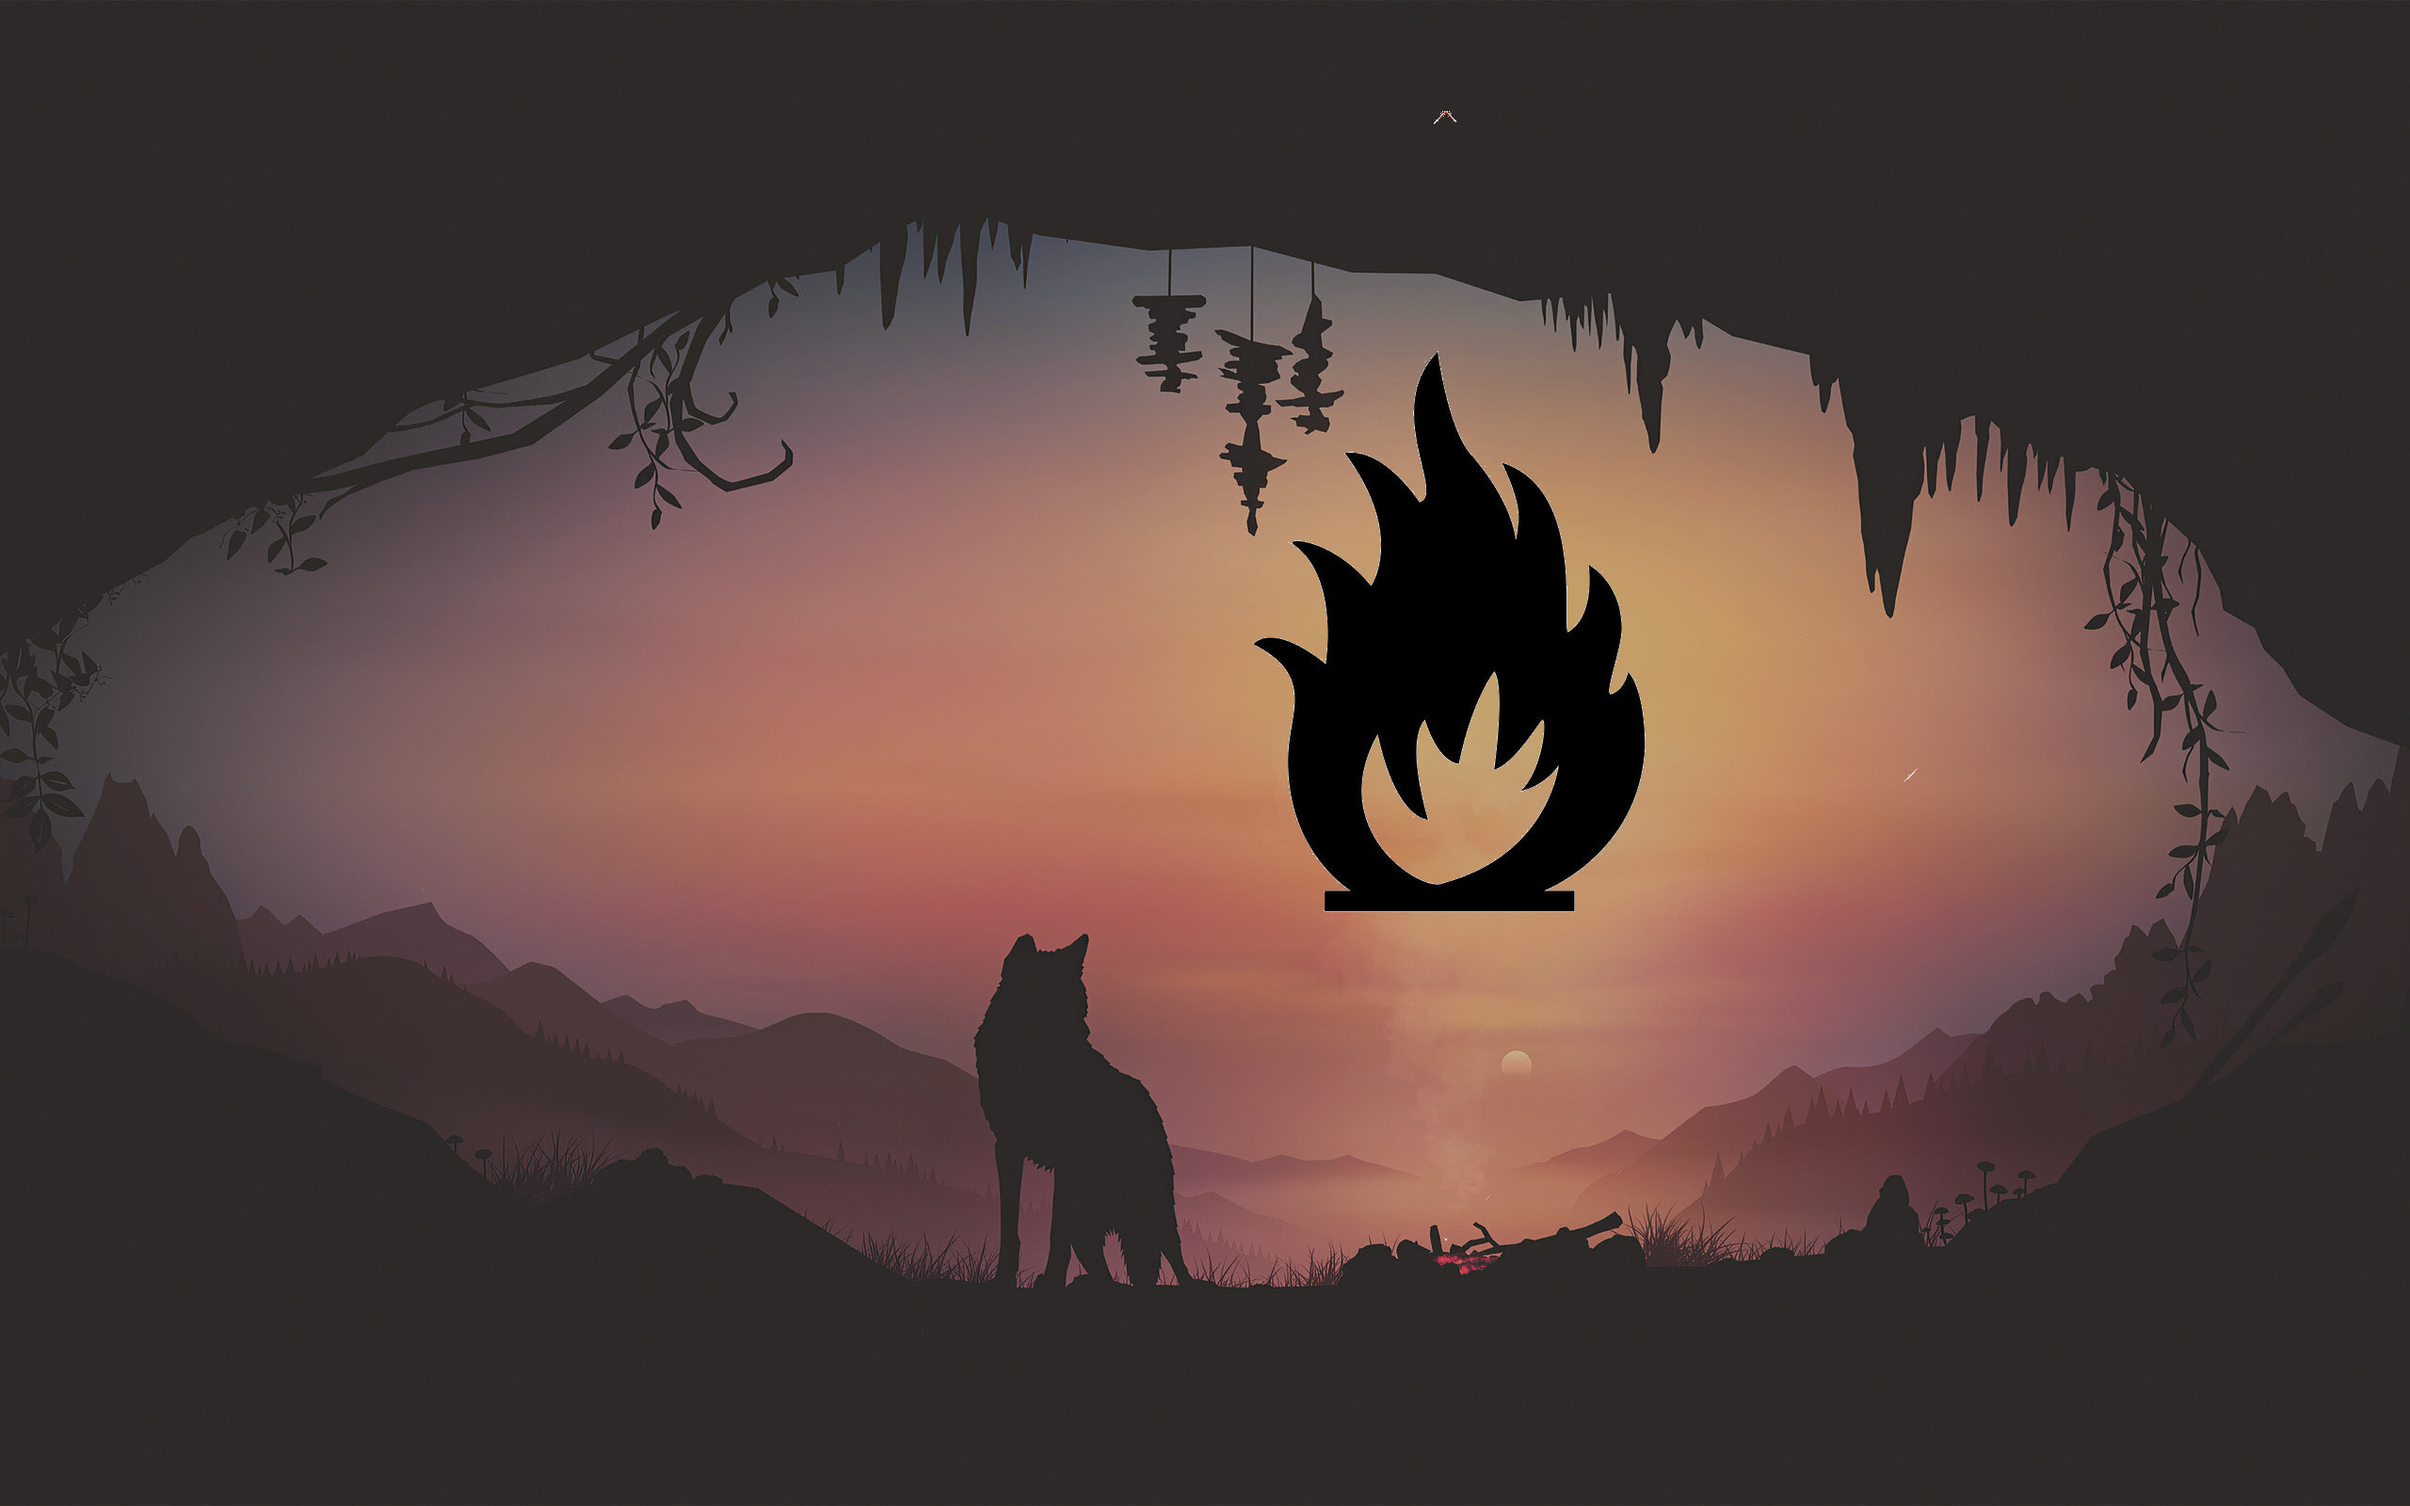
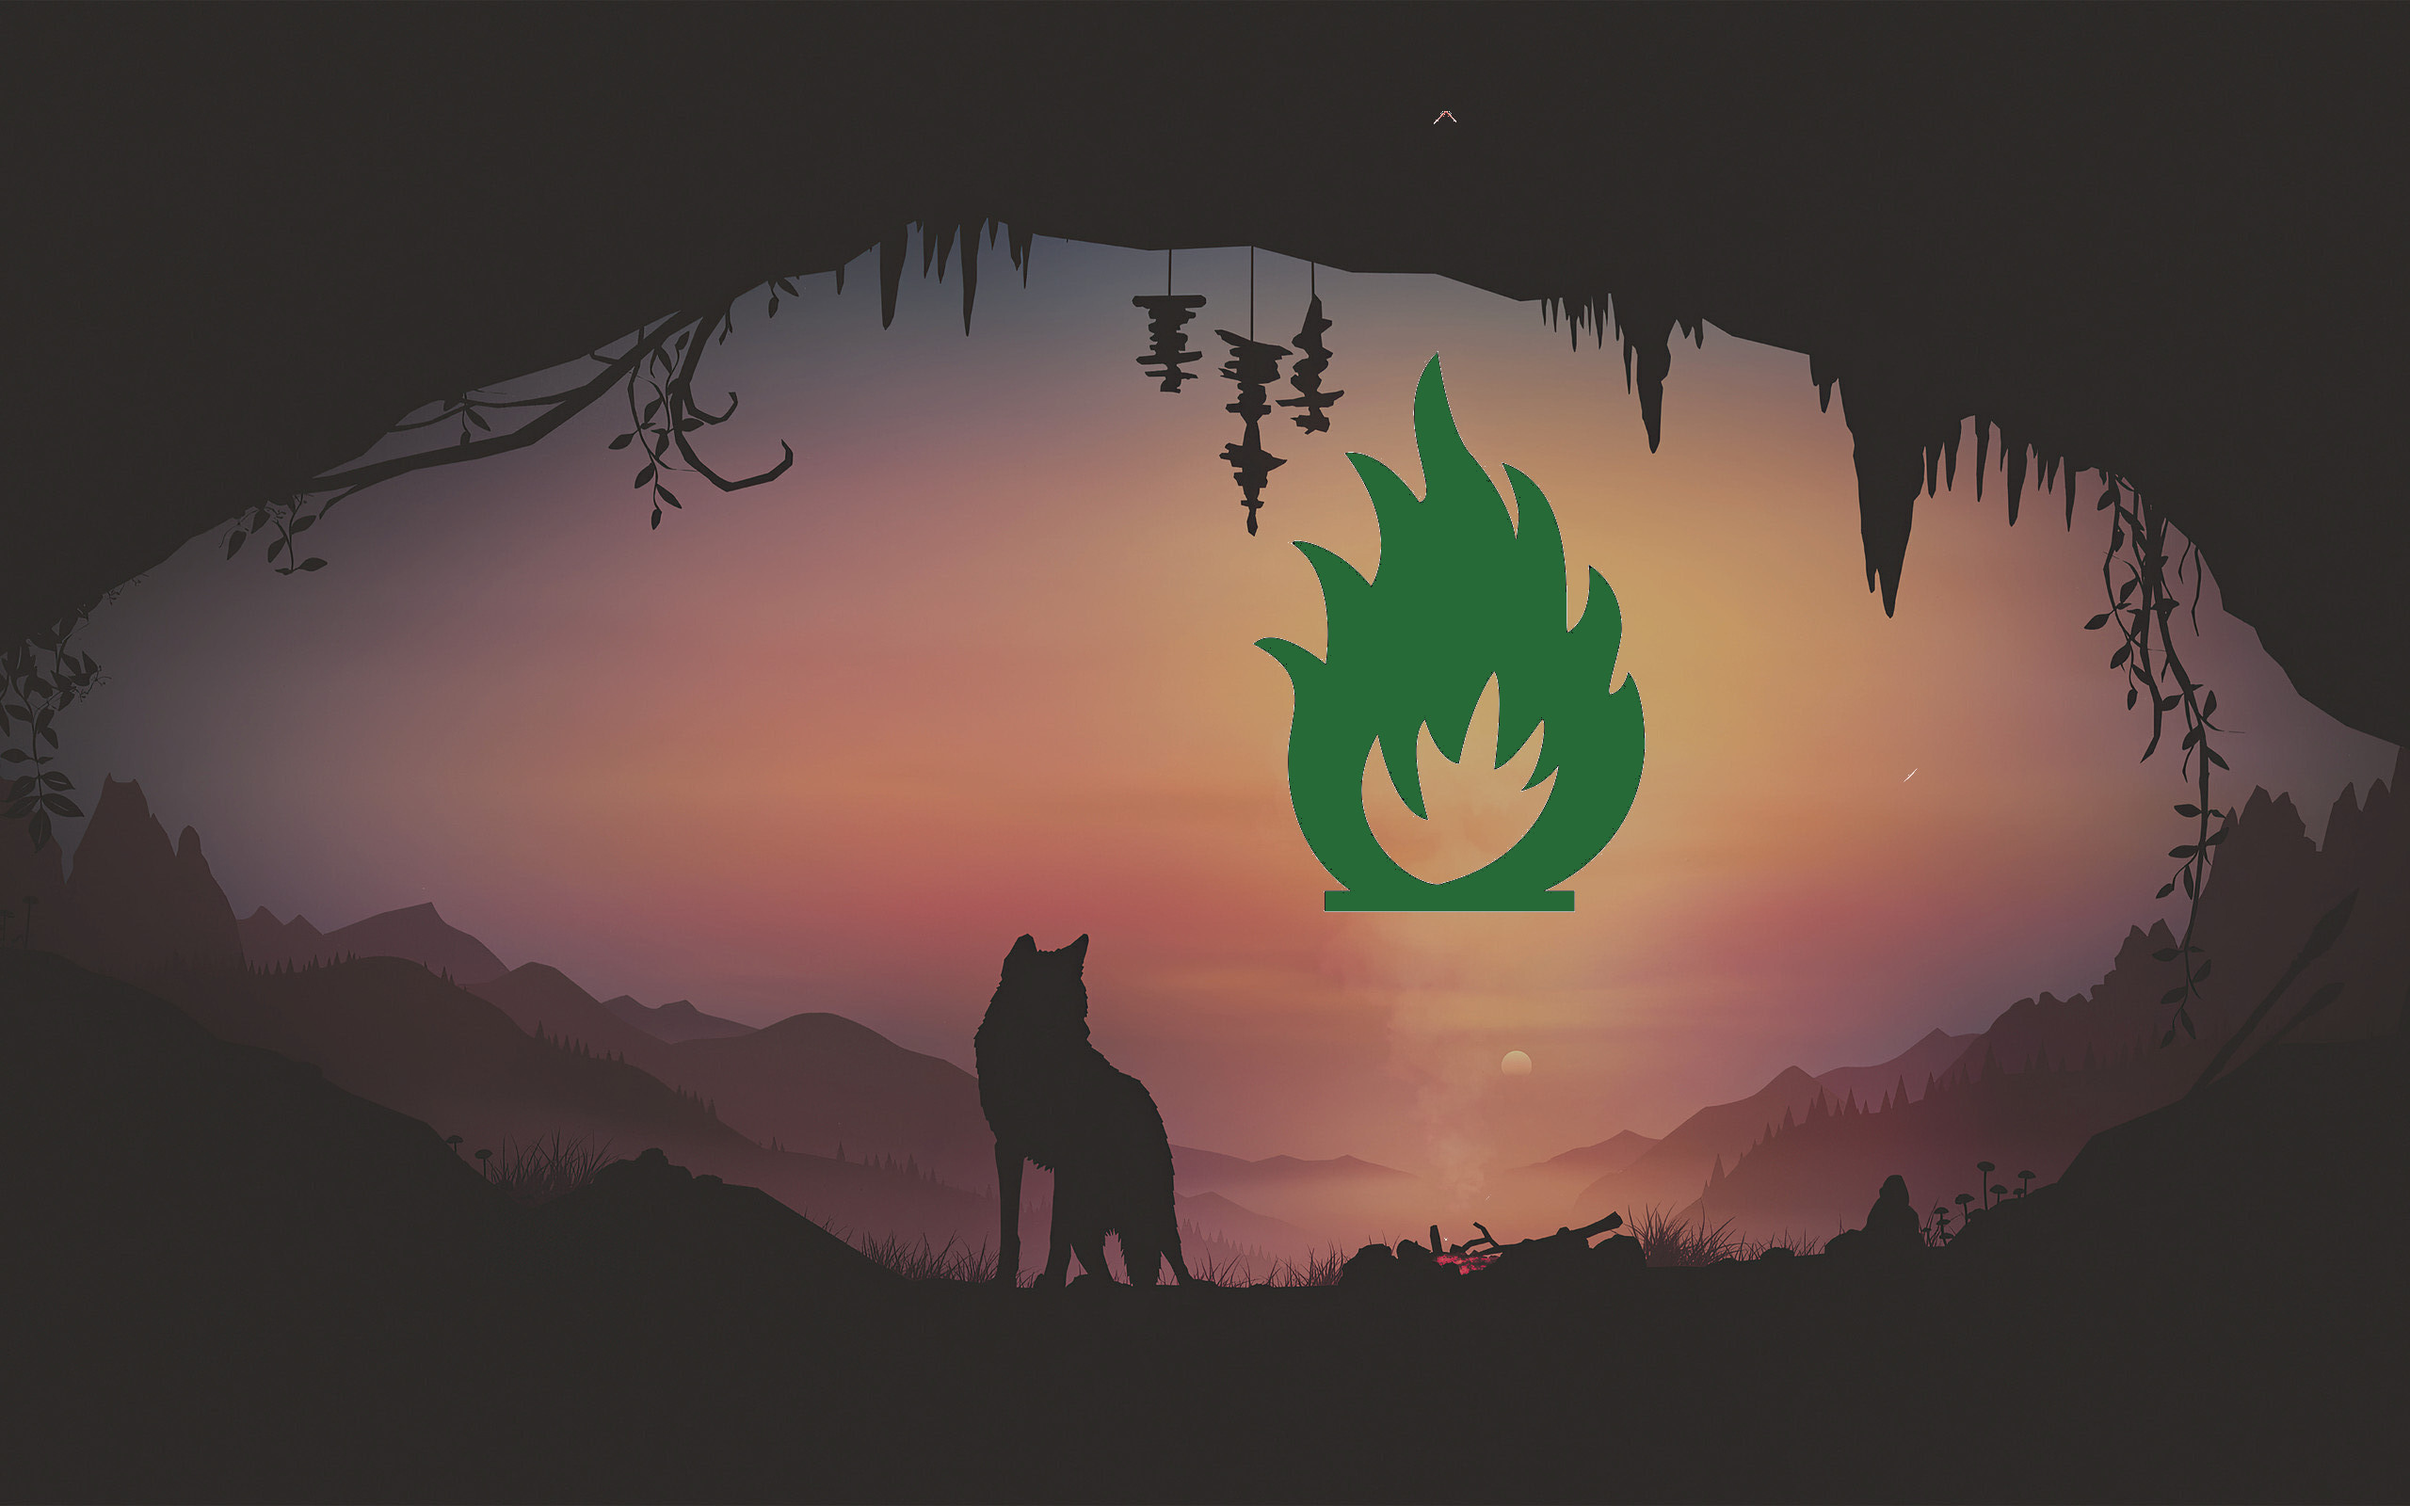
nagyon fapados szinfelismeres (talan mukodo)

Changed region(s): [[0.5312, 0.25, 0.6875, 0.625]]

diff --git a/image.py b/image.py
@@ -25,6 +25,15 @@ def match_percent(match):
     return (1.0 - match) * 100
 
 
+def color_similarity(img1, img2):
+    # histogram magia
+    hist1 = cv2.calcHist([img1], [0, 1, 2], None, [8, 8, 8], [0, 256, 0, 256, 0, 256])
+    hist2 = cv2.calcHist([img2], [0, 1, 2], None, [8, 8, 8], [0, 256, 0, 256, 0, 256])
+    hist1 = cv2.normalize(hist1, hist1).flatten()
+    hist2 = cv2.normalize(hist2, hist2).flatten()
+    return cv2.compareHist(hist1, hist2, cv2.HISTCMP_CORREL)
+
+
 def contours(gray):
     # draga mulatsag, mert csinal egy masolatot az egesz kepbol,
     # ami nagy felbontasnal bajos lehet
@@ -79,11 +88,10 @@ def get_sign(picture, signs):
 # ideiglenes teszt kod
 # csak akkor hivodik meg ha ezt a filet futtatjuk
 if __name__ == '__main__':
-    import utils
-    signs = utils.files('signs')
-    imgs = load_sign('fire1.jpg')
-    test = load_sign('fire2.jpg')
+    imgs = cv2.imread('fire1.jpg')
+    test = cv2.imread('fire2.jpg')
     r_test, r_imgs = resize_to_same_size(test, imgs)
     display(r_test)
     display(r_imgs)
-    print(ssim(r_test, r_imgs))
+    print(color_similarity(r_test, r_imgs))
+    #print(ssim(r_test, r_imgs))
